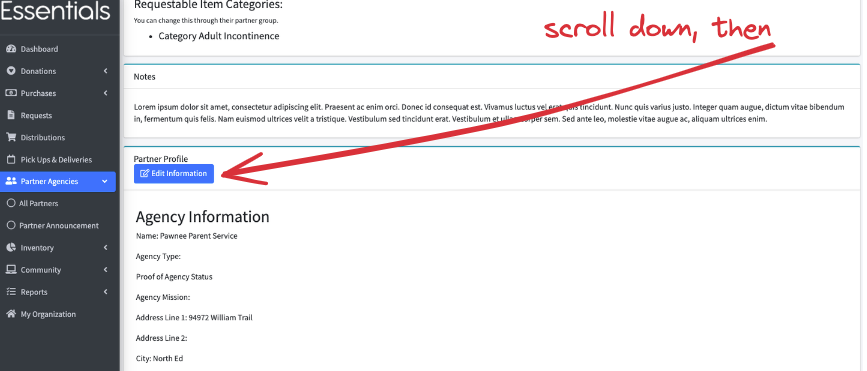
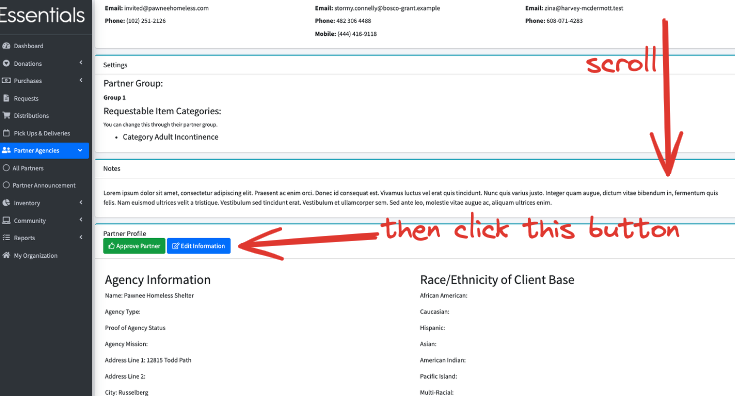
Adding screenshots to partner profiles.  Minor adjustments to wording.

diff --git a/docs/user_guide/bank/pm_partner_profiles.md b/docs/user_guide/bank/pm_partner_profiles.md
@@ -1,9 +1,6 @@
 READY FOR REVIEW
 
 # Partner Profiles
-
-[!NOTE]  We are in progress of reworking the Partner Profiles.  In the interest of not duplicating effort,  we have not included the screenshots in this section until that is ready for launch.
-
 Partner Profiles allow you to gather and hold a lot of information about your Partners that may be useful for meeting your regulatory requirements, managing their experience, and for grant-writing.  
 
 There is a *lot* of information in the profiles, and the information that is needed varies from bank to bank.  Once you decide what information you need from your partners, you can set up the Partner Profiles to show the sections that you need, customizing it through ["My organization"](getting_started_customization.md).
@@ -14,9 +11,28 @@ In the Partner's view of the system,  they can click on "Edit My Profile" to fil
 Once they have saved this,  they will also see a "Submit for Approval" button.   Clicking that changes their status to "Waiting for Approval", and makes them appear in your [dashboard](essentials_dashboard.md)  list of partners waiting for approval, as well as making a "Review Partner's application" button appear beside them in your view of all the Partners.
 
 # Viewing a Partner Profile
-The Partner's profile is viewable by clicking Partner Agencies in the left hand menu, then All Partners, then "view" beside the Partner in question. Scroll down to "Partner Profile"
+The Partner's profile is viewable by clicking Partner Agencies in the left hand menu, then All Partners, then the name of the Partner. Scroll down to "Partner Profile"
+![Partner Profile View Navigation 1](images/partners/partners_profile_view_navigation_1.png)
+![Partner Profile View Navigation 2](images/partners/partners_profile_view_navigation_2.png)
+
+
+
+More information about the partner profile can be found under "Editing a Partner's Profile", below.
 # Editing a Partner's Profile
 You can edit a Partner Profile clicking Partner Agencies in the left hand menu, then All Partners, then "view" beside the partner in question. Scroll down to "Partner Profile", then click "Edit Information."
+
+
+![Partner Profile Edit Navigation 1](images/partners/partners_profile_edit_navigation_1.png)
+![Partner Profile Edit Navigation 2](images/partners/partners_profile_edit_navigation_2.png)
+
+This will bring you to the partner profile edit screen
+It is initially presented with all the sections collapsed.  Clicking on any of them will open the appropriate section.
+
+You can save your progress by pressing the "Save Progress" button -- that will save what you have done, but keep this screen up.
+Clicking "Save and Review" will save what you've entered, and go to the profile view.
+In either case,  the whole profile will be checked for errors, which you will have to resolve to save.
+
+![Partner Profile Edit screen with all sections collapsed](images/partners/partners_profile_edit_initial.png)
 
 # The sections
 The high level sections of the partner profile are:
@@ -36,7 +52,11 @@ The high level sections of the partner profile are:
 - Additional Documents
 - Settings (not configurable)
 
+Unless marked otherwise, above,  you can choose whether you and the partners will see these sections,  in your "My Organization" section (see ["Getting started - customization](getting_started_customization.md))
+
+[!NOTE] The section screenshot images below have sample data in them.  Your initial screens may look a bit different as a result.
 ### Agency Information (not configurable)
+![screenshot of expanded agency information section](images/partners/partners_profile_edit_agency_information.png)
 This section contains basic agency information that most, if not all, partners will need to provide:
 - Agency Name
 - Agency Type
@@ -49,6 +69,7 @@ This section contains basic agency information that most, if not all, partners w
 - Zip Code
 
 ### Program / Delivery Address (if different)
+![screenshot of expanded program address section](images/partners/partners_profile_edit_program_address.png)
 Sometimes, a large agency may have a separate address for a specific program or for deliveries/shipping.
 - Address
 - City
@@ -56,6 +77,7 @@ Sometimes, a large agency may have a separate address for a specific program or 
 - Zip Code
 
 ### Media Information
+![screenshot of expanded media information section](images/partners/partners_profile_edit_media.png)
 This provides a place for the agency to indicate their major communication outlets. 
 
 *If* the bank chooses to ask for this information,  the Partner must fill in at least one of the fields:
@@ -67,6 +89,7 @@ This provides a place for the agency to indicate their major communication outle
 - No Social Media Presence
 
 ### Agency Stability
+![screenshot of expanded agency stability section](images/partners/partners_profile_edit_agency_stability.png)
 This section is about the maturity of the agency. 
 
 None of these fields are mandatory. 
@@ -83,12 +106,14 @@ None of these fields are mandatory.
 - Currently Providing Diapers?
 
 ### Organization Capacity
+![screenshot of expanded organizational capacity section](images/partners/partners_profile_edit_organizational_capcity.png)
 This section has specific questions about the volume of the agency's needs.
 - Client Capacity
 - Storage Space (yes/no)
 - Storage Space Description
 
 ### Sources of Funding
+![screenshot of expanded sources of funding section](images/partners/partners_profile_edit_funding.png)
 How does the agency get its funding?
 - Sources of Funding
 - How do you currently obtain diapers?
@@ -96,6 +121,9 @@ How does the agency get its funding?
 - Essentials Funding Source
 
 ### Area Served (County/Client Share %)
+![screenshot of expanded area served with several counties](images/partners/partners_profile_edit_area_served.png)
+
+
 This asks what county/county equivalents the agency serves and what proportion of their client share is in which area.
 
 At this time, this only covers U.S. counties and equivalents.   We believe the list covers *all* of the U.S, including some areas that are not tecnically counties.    
@@ -106,33 +134,49 @@ The sum of the client share has to be either 0 or 100, and the numbers have to b
 You start out with space for 1 county, but can add more with the "Add Another County button"
 
 ### Population Served
-This section has only two questions: 
+![screenshot of top part of expanded population served question](images/partners/partners_profile_edit_population_1.png)
+![screenshot of bottom part of expanded population served question](images/partners/partners_profile_edit_population_2.png)
+
+This section has three broad questions plus two subsections of of demographic questions:
+
+[!NOTE] We have an issue in our queue to rework this, so the order may change.
+
 - Clients Have An Income Requirement to Work With You?
 - Do You Verify The Income Of Your Clients?
-- 
-### Race/Ethnicity of Client Base
-This section is comprised of questions about the race/ethnicity of the client base and the poverty level of the Partner's client base.
+
+#### Race/Ethnicity of Client Base
+This subsection is comprised of questions about the race/ethnicity of the client base and the poverty level of the Partner's client base.
 There is no check on whether the numbers add up to 100 -- because there may be overlap.
 
-### Race/Ethnicity: 
-- % African American; % Caucasian; % Hispanic; % Asian; % American Indian; % Pacific Island; % Multi-racial; % Other
+- % African American
+- % Caucasian
+- % Hispanic
+- % Asian
+- % American Indian
+- % Pacific Island
+- % Multi-racial
+- % Other
+
 - Zip Codes Served
 
-### Poverty Information of those Served:
+#### Poverty Information of those Served:
 - % at FPL or Below   (FPL is Federal Poverty Line)
 - % above 1-2 times FPL
 - % Greater than 2 times FPL
 - % Poverty Unknown
 
 ### Executive Director
+![screenshot of expanded executive director section](images/partners/partners_profile_edit_executive.png)
+![NOTE] This section currently contains both Executive Director and Primary Contact for the partner.  We have splitting them up in our queue.
 Contact information for the head of the agency:
+- 
 - Executive Director Name
 - Executive Director Phone
 - Executive Director Email
 
 This is for your information only.  It is not used for any emails.
 
-### Primary Contact
+#### Primary Contact
 Contact information for your bank's primary contact 
 - Primary Contact Name
 - Primary Contact Phone
@@ -142,13 +186,15 @@ Contact information for your bank's primary contact
 This is for your information only.  It is not used for any emails.
 
 ### Pick Up Person
-The Pick up person will receive an email (as well as the person who made the Request) when a Distribution is scheduled, if the Distribution type is "Pick up"
+![screenshot of expanded pick up person section]
+The Pick up person (as well as the person who made the Request) will receive an email  when a Distribution is scheduled, if the Distribution type is "Pick up"
 - Pick Up Person Name
 - Pick Up Person's Phone #
 - Pick Up Person's Email 
   - This can be multiple, comma-separated emails.
 
 ### Agency Distribution Information
+![screenshot of expanded agency distribution section](images/partners/partners_profile_edit_agency_distribution.png)
 This section is about the agency's practices when distributing to their clients.
 - Distribution Times
 - New Client Times
@@ -156,9 +202,11 @@ This section is about the agency's practices when distributing to their clients.
   - This is meant to be the documentation required for new clients
 
 ### Additional Documents
+![screenshot of expanded additional documents section](images/partners/partners_profile_edit_documents.png)
 This is a place to upload additional documents that you need from your Partner.
 
 ### Settings (not configurable)
+![screenshot of expanded settings section](images/partners/partners_profile_edit_settings.png)
 Many banks restrict the Partners to one kind of request (see [Customization](getting_started_customization.md)).  If you don't, the Partner can still simplify their request experience by unclicking the items that don't apply.
 Only the options that you haven't already turned off will show up there,  and at least one has to be checked.
 - Enable Quantity-based Requests
